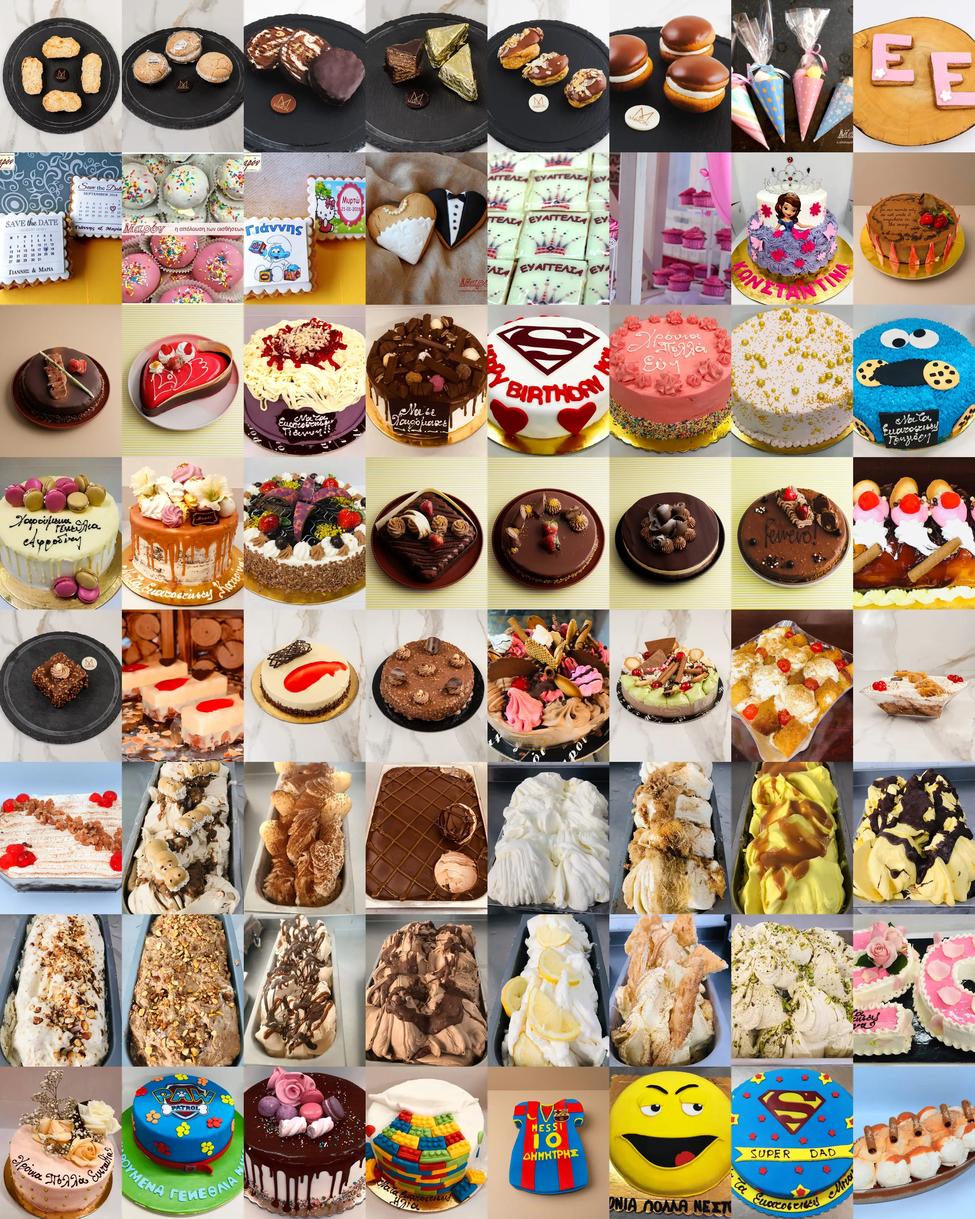
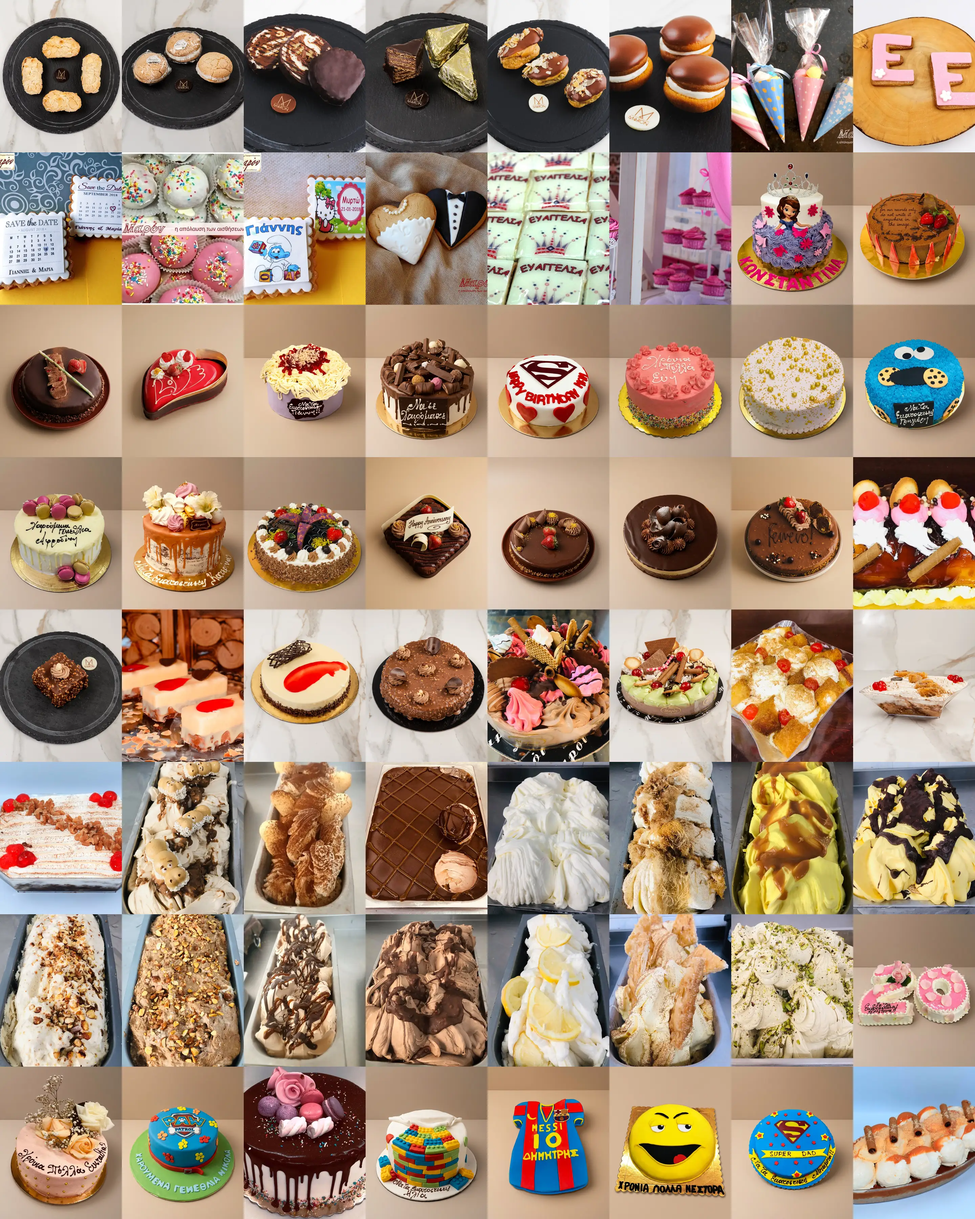
Restyled photos: 578 / 900

diff --git a/proionta.html b/proionta.html
@@ -8,7 +8,7 @@
 <meta name="robots" content="noindex, nofollow">
 <link rel="preconnect" href="https://fonts.googleapis.com"><link rel="preconnect" href="https://fonts.gstatic.com" crossorigin>
 <link rel="stylesheet" href="https://fonts.googleapis.com/css2?family=Commissioner:wght@300;400;500&amp;family=Cormorant+Garamond:ital,wght@1,400;1,500&amp;display=swap">
-<link rel="stylesheet" href="assets/site.css?v=1791330669">
+<link rel="stylesheet" href="assets/site.css?v=1791333318">
 </head>
 <body data-page="catalogue">
 <p class="draftnote">Draft του νέου site: το περιεχόμενο έχει μεταφερθεί από το maron-glykos.gr, δεν είναι ακόμα online.</p>
@@ -76,6 +76,6 @@
   <a href="https://www.instagram.com/maron_greece/" target="_blank" rel="noopener"><svg viewBox="0 0 24 24" aria-hidden="true"><rect x="3" y="3" width="18" height="18" rx="5" fill="none" stroke="currentColor" stroke-width="1.6"/><circle cx="12" cy="12" r="4.2" fill="none" stroke="currentColor" stroke-width="1.6"/><circle cx="17.4" cy="6.6" r="1.1" fill="currentColor"/></svg>Instagram</a>
   <a href="tel:+302105021427"><svg viewBox="0 0 24 24" aria-hidden="true"><path fill="none" stroke="currentColor" stroke-width="1.6" d="M5 3.5h3.5l1.6 4.2-2.2 1.4a11 11 0 0 0 5 5l1.4-2.2 4.2 1.6V17a2.5 2.5 0 0 1-2.7 2.5A15.5 15.5 0 0 1 2.5 6.2 2.5 2.5 0 0 1 5 3.5z"/></svg>Κλήση</a>
 </nav>
-<script src="assets/site.js?v=1791330669"></script>
+<script src="assets/site.js?v=1791333318"></script>
 </body>
 </html>

diff --git a/katigoria.html b/katigoria.html
@@ -8,7 +8,7 @@
 <meta name="robots" content="noindex, nofollow">
 <link rel="preconnect" href="https://fonts.googleapis.com"><link rel="preconnect" href="https://fonts.gstatic.com" crossorigin>
 <link rel="stylesheet" href="https://fonts.googleapis.com/css2?family=Commissioner:wght@300;400;500&amp;family=Cormorant+Garamond:ital,wght@1,400;1,500&amp;display=swap">
-<link rel="stylesheet" href="assets/site.css?v=1791330669">
+<link rel="stylesheet" href="assets/site.css?v=1791333318">
 </head>
 <body data-page="category">
 <p class="draftnote">Draft του νέου site: το περιεχόμενο έχει μεταφερθεί από το maron-glykos.gr, δεν είναι ακόμα online.</p>
@@ -59,6 +59,6 @@
   <a href="https://www.instagram.com/maron_greece/" target="_blank" rel="noopener"><svg viewBox="0 0 24 24" aria-hidden="true"><rect x="3" y="3" width="18" height="18" rx="5" fill="none" stroke="currentColor" stroke-width="1.6"/><circle cx="12" cy="12" r="4.2" fill="none" stroke="currentColor" stroke-width="1.6"/><circle cx="17.4" cy="6.6" r="1.1" fill="currentColor"/></svg>Instagram</a>
   <a href="tel:+302105021427"><svg viewBox="0 0 24 24" aria-hidden="true"><path fill="none" stroke="currentColor" stroke-width="1.6" d="M5 3.5h3.5l1.6 4.2-2.2 1.4a11 11 0 0 0 5 5l1.4-2.2 4.2 1.6V17a2.5 2.5 0 0 1-2.7 2.5A15.5 15.5 0 0 1 2.5 6.2 2.5 2.5 0 0 1 5 3.5z"/></svg>Κλήση</a>
 </nav>
-<script src="assets/site.js?v=1791330669"></script>
+<script src="assets/site.js?v=1791333318"></script>
 </body>
 </html>

diff --git a/proion.html b/proion.html
@@ -8,7 +8,7 @@
 <meta name="robots" content="noindex, nofollow">
 <link rel="preconnect" href="https://fonts.googleapis.com"><link rel="preconnect" href="https://fonts.gstatic.com" crossorigin>
 <link rel="stylesheet" href="https://fonts.googleapis.com/css2?family=Commissioner:wght@300;400;500&amp;family=Cormorant+Garamond:ital,wght@1,400;1,500&amp;display=swap">
-<link rel="stylesheet" href="assets/site.css?v=1791330669">
+<link rel="stylesheet" href="assets/site.css?v=1791333318">
 </head>
 <body data-page="product">
 <p class="draftnote">Draft του νέου site: το περιεχόμενο έχει μεταφερθεί από το maron-glykos.gr, δεν είναι ακόμα online.</p>
@@ -69,6 +69,6 @@
   <a href="https://www.instagram.com/maron_greece/" target="_blank" rel="noopener"><svg viewBox="0 0 24 24" aria-hidden="true"><rect x="3" y="3" width="18" height="18" rx="5" fill="none" stroke="currentColor" stroke-width="1.6"/><circle cx="12" cy="12" r="4.2" fill="none" stroke="currentColor" stroke-width="1.6"/><circle cx="17.4" cy="6.6" r="1.1" fill="currentColor"/></svg>Instagram</a>
   <a href="tel:+302105021427"><svg viewBox="0 0 24 24" aria-hidden="true"><path fill="none" stroke="currentColor" stroke-width="1.6" d="M5 3.5h3.5l1.6 4.2-2.2 1.4a11 11 0 0 0 5 5l1.4-2.2 4.2 1.6V17a2.5 2.5 0 0 1-2.7 2.5A15.5 15.5 0 0 1 2.5 6.2 2.5 2.5 0 0 1 5 3.5z"/></svg>Κλήση</a>
 </nav>
-<script src="assets/site.js?v=1791330669"></script>
+<script src="assets/site.js?v=1791333318"></script>
 </body>
 </html>

diff --git a/index.html b/index.html
@@ -8,7 +8,7 @@
 <meta name="robots" content="noindex, nofollow">
 <link rel="preconnect" href="https://fonts.googleapis.com"><link rel="preconnect" href="https://fonts.gstatic.com" crossorigin>
 <link rel="stylesheet" href="https://fonts.googleapis.com/css2?family=Commissioner:wght@300;400;500&amp;family=Cormorant+Garamond:ital,wght@1,400;1,500&amp;display=swap">
-<link rel="stylesheet" href="assets/site.css?v=1791330669">
+<link rel="stylesheet" href="assets/site.css?v=1791333318">
 </head>
 <body data-page="home">
 <p class="draftnote">Draft του νέου site: το περιεχόμενο έχει μεταφερθεί από το maron-glykos.gr, δεν είναι ακόμα online.</p>
@@ -129,6 +129,6 @@
   <a href="https://www.instagram.com/maron_greece/" target="_blank" rel="noopener"><svg viewBox="0 0 24 24" aria-hidden="true"><rect x="3" y="3" width="18" height="18" rx="5" fill="none" stroke="currentColor" stroke-width="1.6"/><circle cx="12" cy="12" r="4.2" fill="none" stroke="currentColor" stroke-width="1.6"/><circle cx="17.4" cy="6.6" r="1.1" fill="currentColor"/></svg>Instagram</a>
   <a href="tel:+302105021427"><svg viewBox="0 0 24 24" aria-hidden="true"><path fill="none" stroke="currentColor" stroke-width="1.6" d="M5 3.5h3.5l1.6 4.2-2.2 1.4a11 11 0 0 0 5 5l1.4-2.2 4.2 1.6V17a2.5 2.5 0 0 1-2.7 2.5A15.5 15.5 0 0 1 2.5 6.2 2.5 2.5 0 0 1 5 3.5z"/></svg>Κλήση</a>
 </nav>
-<script src="assets/site.js?v=1791330669"></script>
+<script src="assets/site.js?v=1791333318"></script>
 </body>
 </html>

diff --git a/apokries.html b/apokries.html
@@ -8,7 +8,7 @@
 <meta name="robots" content="noindex, nofollow">
 <link rel="preconnect" href="https://fonts.googleapis.com"><link rel="preconnect" href="https://fonts.gstatic.com" crossorigin>
 <link rel="stylesheet" href="https://fonts.googleapis.com/css2?family=Commissioner:wght@300;400;500&amp;family=Cormorant+Garamond:ital,wght@1,400;1,500&amp;display=swap">
-<link rel="stylesheet" href="assets/site.css?v=1791330669">
+<link rel="stylesheet" href="assets/site.css?v=1791333318">
 </head>
 <body data-page="page">
 <p class="draftnote">Draft του νέου site: το περιεχόμενο έχει μεταφερθεί από το maron-glykos.gr, δεν είναι ακόμα online.</p>
@@ -56,6 +56,6 @@
   <a href="https://www.instagram.com/maron_greece/" target="_blank" rel="noopener"><svg viewBox="0 0 24 24" aria-hidden="true"><rect x="3" y="3" width="18" height="18" rx="5" fill="none" stroke="currentColor" stroke-width="1.6"/><circle cx="12" cy="12" r="4.2" fill="none" stroke="currentColor" stroke-width="1.6"/><circle cx="17.4" cy="6.6" r="1.1" fill="currentColor"/></svg>Instagram</a>
   <a href="tel:+302105021427"><svg viewBox="0 0 24 24" aria-hidden="true"><path fill="none" stroke="currentColor" stroke-width="1.6" d="M5 3.5h3.5l1.6 4.2-2.2 1.4a11 11 0 0 0 5 5l1.4-2.2 4.2 1.6V17a2.5 2.5 0 0 1-2.7 2.5A15.5 15.5 0 0 1 2.5 6.2 2.5 2.5 0 0 1 5 3.5z"/></svg>Κλήση</a>
 </nav>
-<script src="assets/site.js?v=1791330669"></script>
+<script src="assets/site.js?v=1791333318"></script>
 </body>
 </html>

diff --git a/blog-aromata-fthinoporou-zaxaroplastiki.html b/blog-aromata-fthinoporou-zaxaroplastiki.html
@@ -8,7 +8,7 @@
 <meta name="robots" content="noindex, nofollow">
 <link rel="preconnect" href="https://fonts.googleapis.com"><link rel="preconnect" href="https://fonts.gstatic.com" crossorigin>
 <link rel="stylesheet" href="https://fonts.googleapis.com/css2?family=Commissioner:wght@300;400;500&amp;family=Cormorant+Garamond:ital,wght@1,400;1,500&amp;display=swap">
-<link rel="stylesheet" href="assets/site.css?v=1791330669">
+<link rel="stylesheet" href="assets/site.css?v=1791333318">
 </head>
 <body data-page="page">
 <p class="draftnote">Draft του νέου site: το περιεχόμενο έχει μεταφερθεί από το maron-glykos.gr, δεν είναι ακόμα online.</p>
@@ -71,6 +71,6 @@
   <a href="https://www.instagram.com/maron_greece/" target="_blank" rel="noopener"><svg viewBox="0 0 24 24" aria-hidden="true"><rect x="3" y="3" width="18" height="18" rx="5" fill="none" stroke="currentColor" stroke-width="1.6"/><circle cx="12" cy="12" r="4.2" fill="none" stroke="currentColor" stroke-width="1.6"/><circle cx="17.4" cy="6.6" r="1.1" fill="currentColor"/></svg>Instagram</a>
   <a href="tel:+302105021427"><svg viewBox="0 0 24 24" aria-hidden="true"><path fill="none" stroke="currentColor" stroke-width="1.6" d="M5 3.5h3.5l1.6 4.2-2.2 1.4a11 11 0 0 0 5 5l1.4-2.2 4.2 1.6V17a2.5 2.5 0 0 1-2.7 2.5A15.5 15.5 0 0 1 2.5 6.2 2.5 2.5 0 0 1 5 3.5z"/></svg>Κλήση</a>
 </nav>
-<script src="assets/site.js?v=1791330669"></script>
+<script src="assets/site.js?v=1791333318"></script>
 </body>
 </html>

diff --git a/blog-brookie-giati-egine-viral.html b/blog-brookie-giati-egine-viral.html
@@ -8,7 +8,7 @@
 <meta name="robots" content="noindex, nofollow">
 <link rel="preconnect" href="https://fonts.googleapis.com"><link rel="preconnect" href="https://fonts.gstatic.com" crossorigin>
 <link rel="stylesheet" href="https://fonts.googleapis.com/css2?family=Commissioner:wght@300;400;500&amp;family=Cormorant+Garamond:ital,wght@1,400;1,500&amp;display=swap">
-<link rel="stylesheet" href="assets/site.css?v=1791330669">
+<link rel="stylesheet" href="assets/site.css?v=1791333318">
 </head>
 <body data-page="page">
 <p class="draftnote">Draft του νέου site: το περιεχόμενο έχει μεταφερθεί από το maron-glykos.gr, δεν είναι ακόμα online.</p>
@@ -73,6 +73,6 @@
   <a href="https://www.instagram.com/maron_greece/" target="_blank" rel="noopener"><svg viewBox="0 0 24 24" aria-hidden="true"><rect x="3" y="3" width="18" height="18" rx="5" fill="none" stroke="currentColor" stroke-width="1.6"/><circle cx="12" cy="12" r="4.2" fill="none" stroke="currentColor" stroke-width="1.6"/><circle cx="17.4" cy="6.6" r="1.1" fill="currentColor"/></svg>Instagram</a>
   <a href="tel:+302105021427"><svg viewBox="0 0 24 24" aria-hidden="true"><path fill="none" stroke="currentColor" stroke-width="1.6" d="M5 3.5h3.5l1.6 4.2-2.2 1.4a11 11 0 0 0 5 5l1.4-2.2 4.2 1.6V17a2.5 2.5 0 0 1-2.7 2.5A15.5 15.5 0 0 1 2.5 6.2 2.5 2.5 0 0 1 5 3.5z"/></svg>Κλήση</a>
 </nav>
-<script src="assets/site.js?v=1791330669"></script>
+<script src="assets/site.js?v=1791333318"></script>
 </body>
 </html>

diff --git a/blog-dimitris-dimitra-glyko-giortis.html b/blog-dimitris-dimitra-glyko-giortis.html
@@ -8,7 +8,7 @@
 <meta name="robots" content="noindex, nofollow">
 <link rel="preconnect" href="https://fonts.googleapis.com"><link rel="preconnect" href="https://fonts.gstatic.com" crossorigin>
 <link rel="stylesheet" href="https://fonts.googleapis.com/css2?family=Commissioner:wght@300;400;500&amp;family=Cormorant+Garamond:ital,wght@1,400;1,500&amp;display=swap">
-<link rel="stylesheet" href="assets/site.css?v=1791330669">
+<link rel="stylesheet" href="assets/site.css?v=1791333318">
 </head>
 <body data-page="page">
 <p class="draftnote">Draft του νέου site: το περιεχόμενο έχει μεταφερθεί από το maron-glykos.gr, δεν είναι ακόμα online.</p>
@@ -74,6 +74,6 @@
   <a href="https://www.instagram.com/maron_greece/" target="_blank" rel="noopener"><svg viewBox="0 0 24 24" aria-hidden="true"><rect x="3" y="3" width="18" height="18" rx="5" fill="none" stroke="currentColor" stroke-width="1.6"/><circle cx="12" cy="12" r="4.2" fill="none" stroke="currentColor" stroke-width="1.6"/><circle cx="17.4" cy="6.6" r="1.1" fill="currentColor"/></svg>Instagram</a>
   <a href="tel:+302105021427"><svg viewBox="0 0 24 24" aria-hidden="true"><path fill="none" stroke="currentColor" stroke-width="1.6" d="M5 3.5h3.5l1.6 4.2-2.2 1.4a11 11 0 0 0 5 5l1.4-2.2 4.2 1.6V17a2.5 2.5 0 0 1-2.7 2.5A15.5 15.5 0 0 1 2.5 6.2 2.5 2.5 0 0 1 5 3.5z"/></svg>Κλήση</a>
 </nav>
-<script src="assets/site.js?v=1791330669"></script>
+<script src="assets/site.js?v=1791333318"></script>
 </body>
 </html>

diff --git a/blog-epistimi-glykou.html b/blog-epistimi-glykou.html
@@ -8,7 +8,7 @@
 <meta name="robots" content="noindex, nofollow">
 <link rel="preconnect" href="https://fonts.googleapis.com"><link rel="preconnect" href="https://fonts.gstatic.com" crossorigin>
 <link rel="stylesheet" href="https://fonts.googleapis.com/css2?family=Commissioner:wght@300;400;500&amp;family=Cormorant+Garamond:ital,wght@1,400;1,500&amp;display=swap">
-<link rel="stylesheet" href="assets/site.css?v=1791330669">
+<link rel="stylesheet" href="assets/site.css?v=1791333318">
 </head>
 <body data-page="page">
 <p class="draftnote">Draft του νέου site: το περιεχόμενο έχει μεταφερθεί από το maron-glykos.gr, δεν είναι ακόμα online.</p>
@@ -80,6 +80,6 @@
   <a href="https://www.instagram.com/maron_greece/" target="_blank" rel="noopener"><svg viewBox="0 0 24 24" aria-hidden="true"><rect x="3" y="3" width="18" height="18" rx="5" fill="none" stroke="currentColor" stroke-width="1.6"/><circle cx="12" cy="12" r="4.2" fill="none" stroke="currentColor" stroke-width="1.6"/><circle cx="17.4" cy="6.6" r="1.1" fill="currentColor"/></svg>Instagram</a>
   <a href="tel:+302105021427"><svg viewBox="0 0 24 24" aria-hidden="true"><path fill="none" stroke="currentColor" stroke-width="1.6" d="M5 3.5h3.5l1.6 4.2-2.2 1.4a11 11 0 0 0 5 5l1.4-2.2 4.2 1.6V17a2.5 2.5 0 0 1-2.7 2.5A15.5 15.5 0 0 1 2.5 6.2 2.5 2.5 0 0 1 5 3.5z"/></svg>Κλήση</a>
 </nav>
-<script src="assets/site.js?v=1791330669"></script>
+<script src="assets/site.js?v=1791333318"></script>
 </body>
 </html>

diff --git a/blog-istoria-glykou.html b/blog-istoria-glykou.html
@@ -8,7 +8,7 @@
 <meta name="robots" content="noindex, nofollow">
 <link rel="preconnect" href="https://fonts.googleapis.com"><link rel="preconnect" href="https://fonts.gstatic.com" crossorigin>
 <link rel="stylesheet" href="https://fonts.googleapis.com/css2?family=Commissioner:wght@300;400;500&amp;family=Cormorant+Garamond:ital,wght@1,400;1,500&amp;display=swap">
-<link rel="stylesheet" href="assets/site.css?v=1791330669">
+<link rel="stylesheet" href="assets/site.css?v=1791333318">
 </head>
 <body data-page="page">
 <p class="draftnote">Draft του νέου site: το περιεχόμενο έχει μεταφερθεί από το maron-glykos.gr, δεν είναι ακόμα online.</p>
@@ -78,6 +78,6 @@
   <a href="https://www.instagram.com/maron_greece/" target="_blank" rel="noopener"><svg viewBox="0 0 24 24" aria-hidden="true"><rect x="3" y="3" width="18" height="18" rx="5" fill="none" stroke="currentColor" stroke-width="1.6"/><circle cx="12" cy="12" r="4.2" fill="none" stroke="currentColor" stroke-width="1.6"/><circle cx="17.4" cy="6.6" r="1.1" fill="currentColor"/></svg>Instagram</a>
   <a href="tel:+302105021427"><svg viewBox="0 0 24 24" aria-hidden="true"><path fill="none" stroke="currentColor" stroke-width="1.6" d="M5 3.5h3.5l1.6 4.2-2.2 1.4a11 11 0 0 0 5 5l1.4-2.2 4.2 1.6V17a2.5 2.5 0 0 1-2.7 2.5A15.5 15.5 0 0 1 2.5 6.2 2.5 2.5 0 0 1 5 3.5z"/></svg>Κλήση</a>
 </nav>
-<script src="assets/site.js?v=1791330669"></script>
+<script src="assets/site.js?v=1791333318"></script>
 </body>
 </html>

diff --git a/blog-pasxa-egkefalos.html b/blog-pasxa-egkefalos.html
@@ -8,7 +8,7 @@
 <meta name="robots" content="noindex, nofollow">
 <link rel="preconnect" href="https://fonts.googleapis.com"><link rel="preconnect" href="https://fonts.gstatic.com" crossorigin>
 <link rel="stylesheet" href="https://fonts.googleapis.com/css2?family=Commissioner:wght@300;400;500&amp;family=Cormorant+Garamond:ital,wght@1,400;1,500&amp;display=swap">
-<link rel="stylesheet" href="assets/site.css?v=1791330669">
+<link rel="stylesheet" href="assets/site.css?v=1791333318">
 </head>
 <body data-page="page">
 <p class="draftnote">Draft του νέου site: το περιεχόμενο έχει μεταφερθεί από το maron-glykos.gr, δεν είναι ακόμα online.</p>
@@ -78,6 +78,6 @@
   <a href="https://www.instagram.com/maron_greece/" target="_blank" rel="noopener"><svg viewBox="0 0 24 24" aria-hidden="true"><rect x="3" y="3" width="18" height="18" rx="5" fill="none" stroke="currentColor" stroke-width="1.6"/><circle cx="12" cy="12" r="4.2" fill="none" stroke="currentColor" stroke-width="1.6"/><circle cx="17.4" cy="6.6" r="1.1" fill="currentColor"/></svg>Instagram</a>
   <a href="tel:+302105021427"><svg viewBox="0 0 24 24" aria-hidden="true"><path fill="none" stroke="currentColor" stroke-width="1.6" d="M5 3.5h3.5l1.6 4.2-2.2 1.4a11 11 0 0 0 5 5l1.4-2.2 4.2 1.6V17a2.5 2.5 0 0 1-2.7 2.5A15.5 15.5 0 0 1 2.5 6.2 2.5 2.5 0 0 1 5 3.5z"/></svg>Κλήση</a>
 </nav>
-<script src="assets/site.js?v=1791330669"></script>
+<script src="assets/site.js?v=1791333318"></script>
 </body>
 </html>

diff --git a/blog.html b/blog.html
@@ -8,7 +8,7 @@
 <meta name="robots" content="noindex, nofollow">
 <link rel="preconnect" href="https://fonts.googleapis.com"><link rel="preconnect" href="https://fonts.gstatic.com" crossorigin>
 <link rel="stylesheet" href="https://fonts.googleapis.com/css2?family=Commissioner:wght@300;400;500&amp;family=Cormorant+Garamond:ital,wght@1,400;1,500&amp;display=swap">
-<link rel="stylesheet" href="assets/site.css?v=1791330669">
+<link rel="stylesheet" href="assets/site.css?v=1791333318">
 </head>
 <body data-page="page">
 <p class="draftnote">Draft του νέου site: το περιεχόμενο έχει μεταφερθεί από το maron-glykos.gr, δεν είναι ακόμα online.</p>
@@ -54,6 +54,6 @@
   <a href="https://www.instagram.com/maron_greece/" target="_blank" rel="noopener"><svg viewBox="0 0 24 24" aria-hidden="true"><rect x="3" y="3" width="18" height="18" rx="5" fill="none" stroke="currentColor" stroke-width="1.6"/><circle cx="12" cy="12" r="4.2" fill="none" stroke="currentColor" stroke-width="1.6"/><circle cx="17.4" cy="6.6" r="1.1" fill="currentColor"/></svg>Instagram</a>
   <a href="tel:+302105021427"><svg viewBox="0 0 24 24" aria-hidden="true"><path fill="none" stroke="currentColor" stroke-width="1.6" d="M5 3.5h3.5l1.6 4.2-2.2 1.4a11 11 0 0 0 5 5l1.4-2.2 4.2 1.6V17a2.5 2.5 0 0 1-2.7 2.5A15.5 15.5 0 0 1 2.5 6.2 2.5 2.5 0 0 1 5 3.5z"/></svg>Κλήση</a>
 </nav>
-<script src="assets/site.js?v=1791330669"></script>
+<script src="assets/site.js?v=1791333318"></script>
 </body>
 </html>
